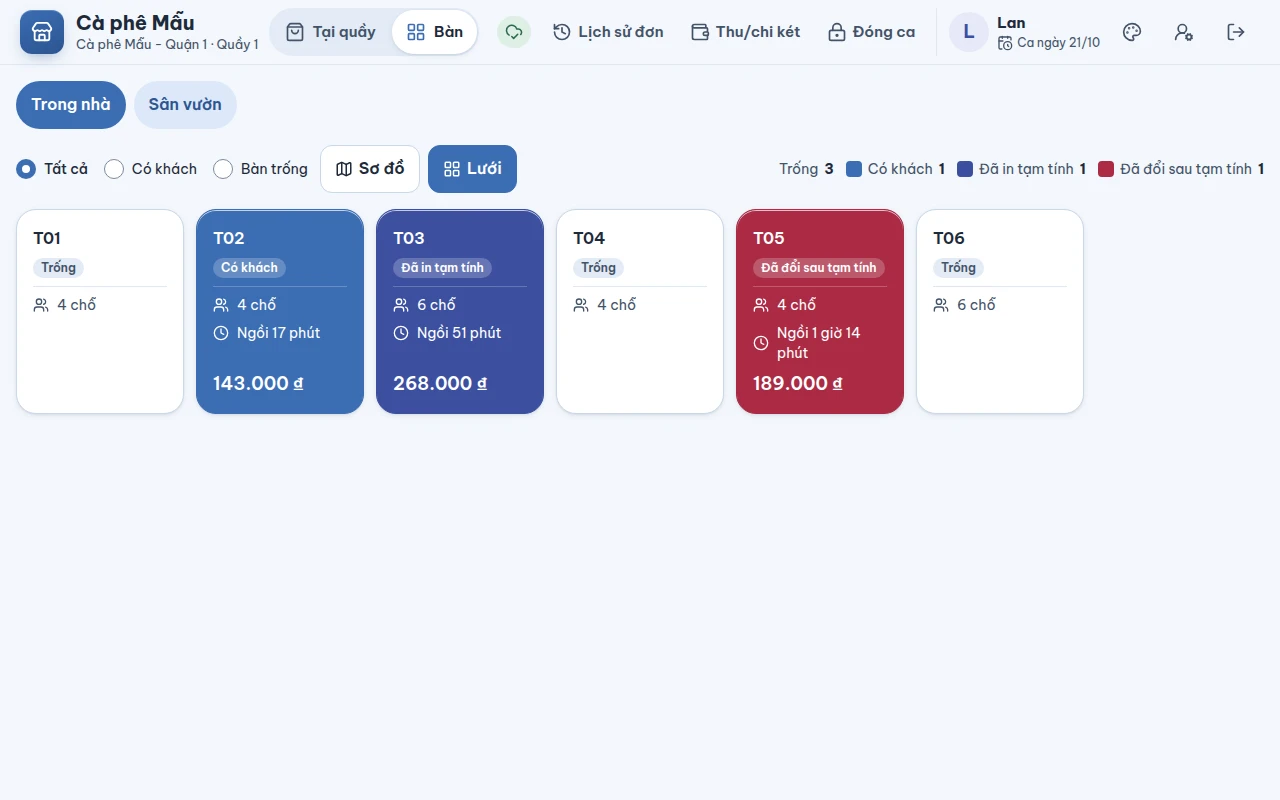
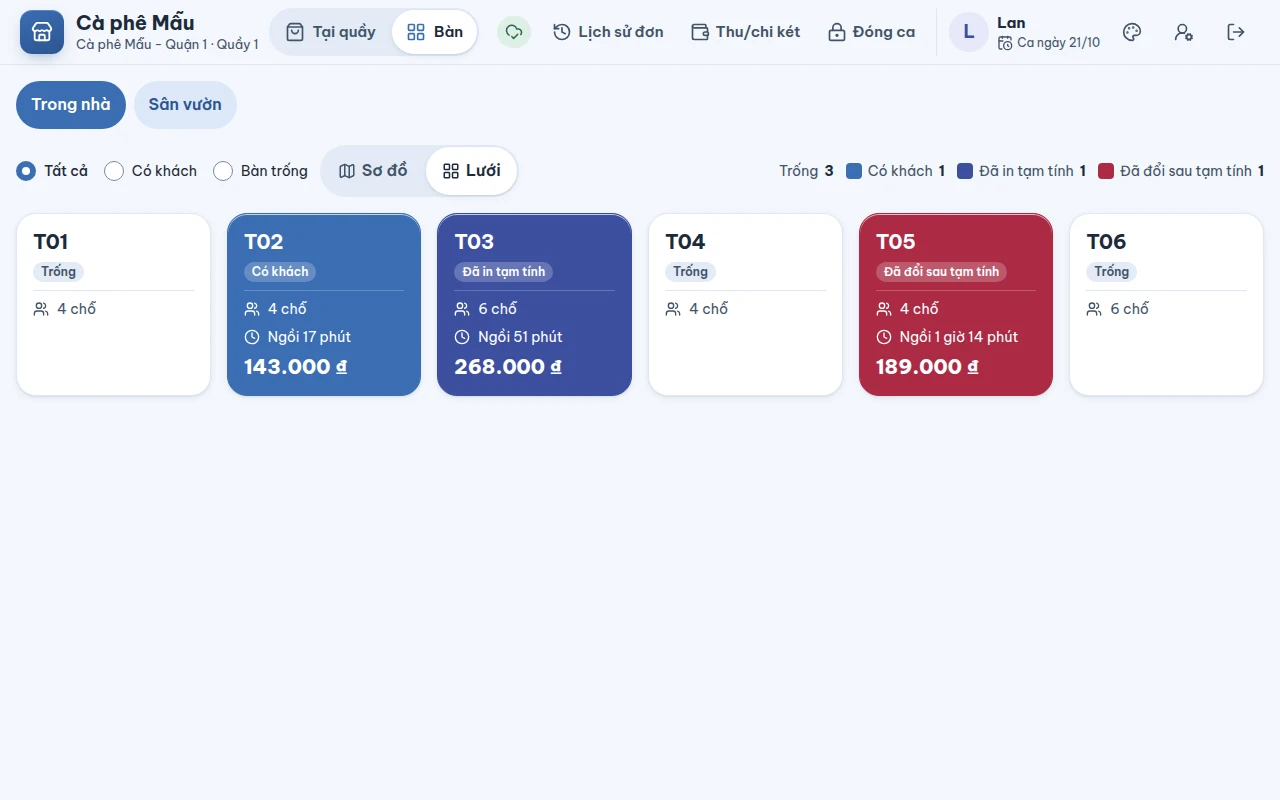
feat(pos): bring the floor plan up to the new till look

diff --git a/apps/pos/src/screens/floor/floor-screen.tsx b/apps/pos/src/screens/floor/floor-screen.tsx
@@ -1,4 +1,4 @@
-import { LayoutGrid, Map as MapIcon } from "lucide-react";
+import { Armchair, LayoutGrid, ListFilter, Map as MapIcon } from "lucide-react";
 import { type ReactNode, useState } from "react";
 import type { FloorArea } from "../../features/floor/floor-occupancy";
 import { planBoxOf, planReadable } from "../../features/floor/floor-plan-box";
@@ -75,7 +75,7 @@ export function FloorScreen(props: FloorScreenProps) {
           <LoadingState title={F.loading} />
         ) : null
       ) : areas.length === 0 ? (
-        <EmptyState title={F.noPlan} />
+        <EmptyState icon={Armchair} title={F.noPlan} />
       ) : (
         <>
           <div className="pos-tabs pos-area-tabs" role="tablist" aria-label={F.areasLabel}>
@@ -99,7 +99,7 @@ export function FloorScreen(props: FloorScreenProps) {
               )}
             </div>
             {box === null ? null : (
-              <div className="pos-tabs" role="group" aria-label={F.viewLabel}>
+              <div className="pos-tabs pos-segmented" role="group" aria-label={F.viewLabel}>
                 <button
                   type="button"
                   className="pos-tab"
@@ -122,10 +122,15 @@ export function FloorScreen(props: FloorScreenProps) {
             )}
             <FloorLegend tables={inArea} />
           </div>
-          {inArea.length === 0 ? <EmptyState title={F.emptyArea} /> : null}
-          {inArea.length > 0 && shown.length === 0 ? <EmptyState title={F.noneShown} /> : null}
+          {inArea.length === 0 ? (
+            <EmptyState icon={Armchair} title={F.emptyArea} body={F.emptyAreaHint} />
+          ) : null}
+          {inArea.length > 0 && shown.length === 0 ? (
+            <EmptyState icon={ListFilter} title={F.noneShown} body={F.noneShownHint} />
+          ) : null}
           {box !== null && view === "plan" ? (
             <FloorPlan
+              key={areaId}
               box={box}
               tables={inArea}
               shown={new Set(shown.map((table) => table.id))}
@@ -133,7 +138,7 @@ export function FloorScreen(props: FloorScreenProps) {
               onOpen={props.onOpenTable}
             />
           ) : (
-            <ul className="pos-table-grid" aria-label={F.title}>
+            <ul key={areaId} className="pos-table-grid" aria-label={F.title}>
               {shown.map((table) => (
                 <li key={table.id}>
                   <TableTile table={table} now={now} onOpen={() => props.onOpenTable(table)} />

diff --git a/apps/pos/src/screens/floor/floor-screen.test.tsx b/apps/pos/src/screens/floor/floor-screen.test.tsx
@@ -1,0 +1,60 @@
+import { vnd } from "@fnb/domain";
+import { fireEvent, render, screen } from "@testing-library/react";
+import { afterEach, describe, expect, it } from "vitest";
+import type { FloorTableView } from "../../features/floor/floor-tables-view";
+import { vi as text } from "../../messages/vi";
+import { FloorScreen } from "./floor-screen";
+
+const F = text.tables.floor;
+const NOW = Date.parse("2026-10-21T12:00:00.000Z");
+const AREAS = [
+  { id: "a1", name: "Trong nhà" },
+  { id: "a2", name: "Sân thượng" },
+];
+const seated: FloorTableView = {
+  id: "t1",
+  areaId: "a1",
+  name: "Bàn 1",
+  seats: 4,
+  status: "occupied",
+  orderId: "o1",
+  openedAt: new Date(NOW - 15 * 60_000).toISOString(),
+  amountDue: vnd(120_000),
+  layout: null,
+};
+
+const showFloor = (tables: readonly FloorTableView[]) =>
+  render(
+    <FloorScreen
+      header={null}
+      areas={AREAS}
+      tables={tables}
+      now={NOW}
+      loadError={null}
+      notice={null}
+      initialView="grid"
+      onOpenTable={() => {}}
+    />,
+  );
+
+afterEach(() => {
+  document.body.innerHTML = "";
+});
+
+describe("the floor when nothing is shown", () => {
+  it("says where tables come from when an area has none", () => {
+    showFloor([seated]);
+    fireEvent.click(screen.getByRole("tab", { name: "Sân thượng" }));
+    expect(screen.getByText(F.emptyArea)).toBeTruthy();
+    expect(screen.getByText(F.emptyAreaHint)).toBeTruthy();
+  });
+
+  it("points back to every table when the filter keeps none", () => {
+    showFloor([seated]);
+    fireEvent.click(screen.getByRole("button", { name: F.filters.free }));
+    expect(screen.getByText(F.noneShown)).toBeTruthy();
+    expect(screen.getByText(F.noneShownHint)).toBeTruthy();
+    fireEvent.click(screen.getByRole("button", { name: F.filters.all }));
+    expect(screen.getByRole("button", { name: /Bàn 1/ })).toBeTruthy();
+  });
+});

diff --git a/apps/pos/src/styles/pos-table-tile.css b/apps/pos/src/styles/pos-table-tile.css
@@ -1,8 +1,10 @@
-/* A table, by status: free is white with a thin edge; seated is filled green, pre-billed
-   blue, changed after its pre-bill red, with white writing. The status is written on it too,
+/* A table, by status, in the selling screen's card language (a raised card, the name in
+   bold, the bill in heavy tabular figures): free is the plain card; seated is filled with
+   the brand colour, pre-billed with the info colour, changed after its pre-bill with the
+   danger colour, with light writing. The status is written on it too,
    so the colour only helps a glance across the room. */
 .pos-table {
-  --table-line: var(--c-border);
+  --table-line: var(--c-border-soft);
   --table-fill: var(--c-surface);
   --table-text: var(--c-text);
   --table-quiet: var(--c-text-2);
@@ -13,7 +15,7 @@
   gap: var(--sp-2);
   width: 100%;
   height: 100%;
-  min-height: 139px;
+  min-height: 148px;
   padding: var(--sp-4);
   border: 1px solid var(--table-line);
   border-radius: var(--r-lg);
@@ -24,11 +26,10 @@
   text-align: left;
   cursor: pointer;
   touch-action: manipulation;
-  transition: transform 80ms ease;
 }
 
 .pos-table:active {
-  transform: scale(0.98);
+  box-shadow: var(--shadow-press);
 }
 
 .pos-table:focus-visible {
@@ -38,9 +39,10 @@
 
 .pos-table__name {
   max-width: 100%;
-  font-size: var(--fs-md);
-  font-weight: var(--fw-semibold);
-  line-height: 24px;
+  font-size: var(--fs-xl);
+  font-weight: var(--fw-bold);
+  line-height: var(--lh-tight);
+  letter-spacing: -0.01em;
 }
 
 /* The status closes the tile's head, a faint rule under it before the facts. */
@@ -85,8 +87,9 @@
 .pos-table__amount {
   max-width: 100%;
   margin-top: auto;
-  font-size: var(--fs-lg);
-  font-weight: var(--fw-semibold);
+  font-size: var(--fs-xl);
+  font-weight: var(--fw-heavy);
+  line-height: var(--lh-tight);
   font-variant-numeric: tabular-nums;
   overflow-wrap: anywhere;
 }

diff --git a/apps/pos/src/styles/pos-nav.css b/apps/pos/src/styles/pos-nav.css
@@ -148,3 +148,31 @@
   background: var(--c-brand);
   color: var(--c-on-brand);
 }
+
+/* A switch between two or three ways to see the same thing (the floor as a plan or a grid,
+   the history's days): one soft track, the chosen side a raised card, as the order's
+   "Mang đi / Tại chỗ". */
+.pos-tabs.pos-segmented[role="group"] {
+  gap: 2px;
+  padding: 2px;
+  border-radius: var(--r-pill);
+  background: var(--c-surface-3);
+}
+
+.pos-tabs.pos-segmented[role="group"] > .pos-tab {
+  display: inline-flex;
+  align-items: center;
+  gap: 6px;
+  min-height: var(--tap);
+  padding-inline: var(--sp-4);
+  border: 0;
+  border-radius: var(--r-pill);
+  background: transparent;
+  color: var(--c-text-2);
+}
+
+.pos-tabs.pos-segmented[role="group"] > .pos-tab[aria-pressed="true"] {
+  background: var(--c-surface);
+  box-shadow: var(--shadow-card);
+  color: var(--c-text);
+}

diff --git a/apps/pos/src/messages/vi-tables.ts b/apps/pos/src/messages/vi-tables.ts
@@ -14,12 +14,14 @@ export const VI_TABLES = {
     loadFailed: "Không tải được sơ đồ bàn. Kiểm tra mạng; máy sẽ tự thử lại.",
     noPlan: "Chi nhánh chưa có bàn nào. Thêm khu và bàn ở trang quản lý, mục Sơ đồ bàn.",
     emptyArea: "Khu này chưa có bàn.",
+    emptyAreaHint: "Thêm bàn cho khu này ở trang quản lý, mục Sơ đồ bàn.",
     legendLabel: "Chú thích trạng thái bàn",
     filterLabel: "Lọc bàn",
     filters: { all: "Tất cả", seated: "Có khách", free: "Bàn trống" },
     viewLabel: "Cách xem",
     views: { plan: "Sơ đồ", grid: "Lưới" },
     noneShown: "Không có bàn nào khớp bộ lọc.",
+    noneShownHint: "Chọn “Tất cả” để xem mọi bàn của khu.",
     seats: (count: number) => `${count} chỗ`,
     status: {
       free: "Trống",

diff --git a/apps/pos/src/styles/pos-motion.css b/apps/pos/src/styles/pos-motion.css
@@ -33,6 +33,12 @@
   animation: pos-swap-b var(--t-state) var(--ease-out);
 }
 
+/* Another area of the floor: its tables fade in where the last area's stood. */
+.pos-table-grid,
+.pos-plan {
+  animation: pos-swap-a var(--t-state) var(--ease-out);
+}
+
 /* Every tappable thing gives under the finger the same way. */
 .pos-table,
 .pos-chip,

diff --git a/apps/pos/src/styles/pos-floor.css b/apps/pos/src/styles/pos-floor.css
@@ -5,8 +5,8 @@
 
 .pos-table-grid {
   display: grid;
-  grid-template-columns: repeat(auto-fill, minmax(min(100%, 148px), 1fr));
-  gap: var(--sp-3);
+  grid-template-columns: repeat(auto-fill, minmax(min(100%, 168px), 1fr));
+  gap: var(--sp-4);
   margin: 0;
   padding: 0;
   list-style: none;

diff --git a/docs/handbook/may-quay/05-ban.md b/docs/handbook/may-quay/05-ban.md
@@ -61,7 +61,7 @@ Cho quán có chỗ ngồi: khách ngồi trước, gọi món nhiều lượt, 
 
    ![Sơ đồ bàn dạng lưới](../images/may-quay/floor.webp)
 
-3. Mỗi bàn ghi tên, trạng thái, khách đã **ngồi bao lâu** và số tiền đang có. Chú thích ở góc phải đếm số bàn mỗi trạng thái:
+3. Mỗi bàn là một thẻ ghi tên (chữ đậm), trạng thái, số chỗ, khách đã **ngồi bao lâu** và số tiền đang có (chữ lớn ở chân thẻ); bàn có khách tô kín màu của trạng thái. Chú thích ở góc phải đếm số bàn mỗi trạng thái:
 
    | Trạng thái | Nghĩa |
    |---|---|
@@ -118,7 +118,8 @@ Bấm **Thanh toán** hoặc **F9** — cùng ngăn thanh toán như tại quầ
 |---|---|---|
 | Đang tải sơ đồ bàn… / Không tải được sơ đồ bàn. Kiểm tra mạng; máy sẽ tự thử lại. | Máy chưa có sơ đồ | Chờ; kiểm tra mạng |
 | Chi nhánh chưa có bàn nào. Thêm khu và bàn ở trang quản lý, mục Sơ đồ bàn. | Chưa vẽ sơ đồ | Chủ quán vẽ sơ đồ |
-| Khu này chưa có bàn. / Không có bàn nào khớp bộ lọc. | Khu trống / lọc không ra bàn | Đổi khu hoặc bộ lọc |
+| Khu này chưa có bàn. — Thêm bàn cho khu này ở trang quản lý, mục Sơ đồ bàn. | Khu trống | Đổi khu, hoặc chủ quán thêm bàn |
+| Không có bàn nào khớp bộ lọc. — Chọn “Tất cả” để xem mọi bàn của khu. | Lọc không ra bàn | Chọn **Tất cả** |
 | Đơn của bàn này chưa về máy. Chờ máy đồng bộ (vài giây khi có mạng) rồi chạm lại vào bàn. | Máy khác vừa mở bàn, đơn chưa tới máy này | Chờ vài giây, chạm lại |
 | Bàn T05 đang có khách. Máy chưa gộp được hai bàn: chọn một bàn trống, hoặc thanh toán riêng từng bàn. | Chuyển sang bàn có khách | Chọn bàn trống |
 | Không còn bàn trống nào ở chi nhánh. | Hết bàn trống | — |
